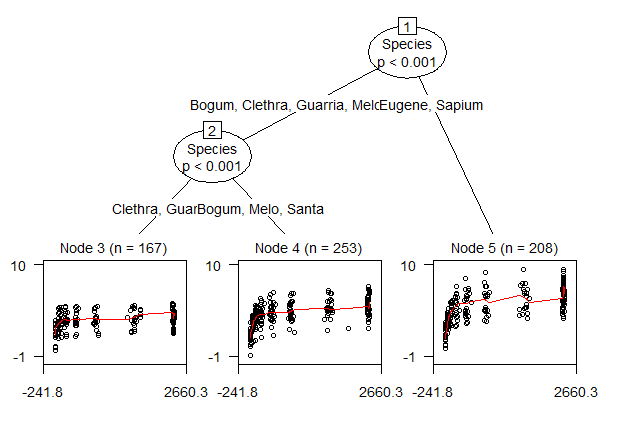
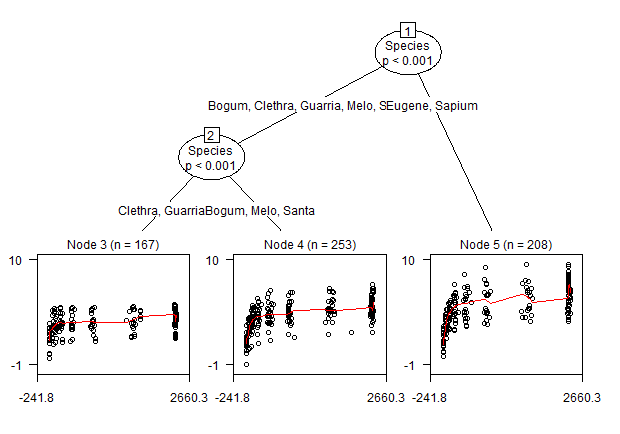
README updates

diff --git a/README.md b/README.md
@@ -141,7 +141,7 @@ list of changeable parameters), here we use it to impove readability of
 the plot by reducing the size of plotting symbols:
 
 ``` r
-plot(st, which = "tree", gp = gpar(cex = .7))
+plot(st, which = "tree", gp = gpar(cex = .6))
 ```
 
 ![](inst/README-figures/README-unnamed-chunk-8-1.png)
@@ -206,7 +206,7 @@ of the predictor variable space:
 ``` r
 st2 <- splinetree(Pn ~ bs(PAR, df = 15) | (1|Specimen) | Species, data = eco, 
                  cluster = Specimen)
-plot(st2, which = "tree", gp = gpar(cex=.7))
+plot(st2, which = "tree", gp = gpar(cex = .6))
 ```
 
 ![](inst/README-figures/README-unnamed-chunk-13-1.png)
@@ -227,7 +227,7 @@ to different but reasonable choices of degrees of freedom:
 ``` r
 st3 <- splinetree(Pn ~ ns(PAR, df = 2) | (1|Specimen) | Species, data = eco, 
                  cluster = Specimen)
-plot(st3, which = "tree", gp = gpar(cex = .7))
+plot(st3, which = "tree", gp = gpar(cex = .6))
 ```
 
 ![](inst/README-figures/README-unnamed-chunk-14-1.png)
